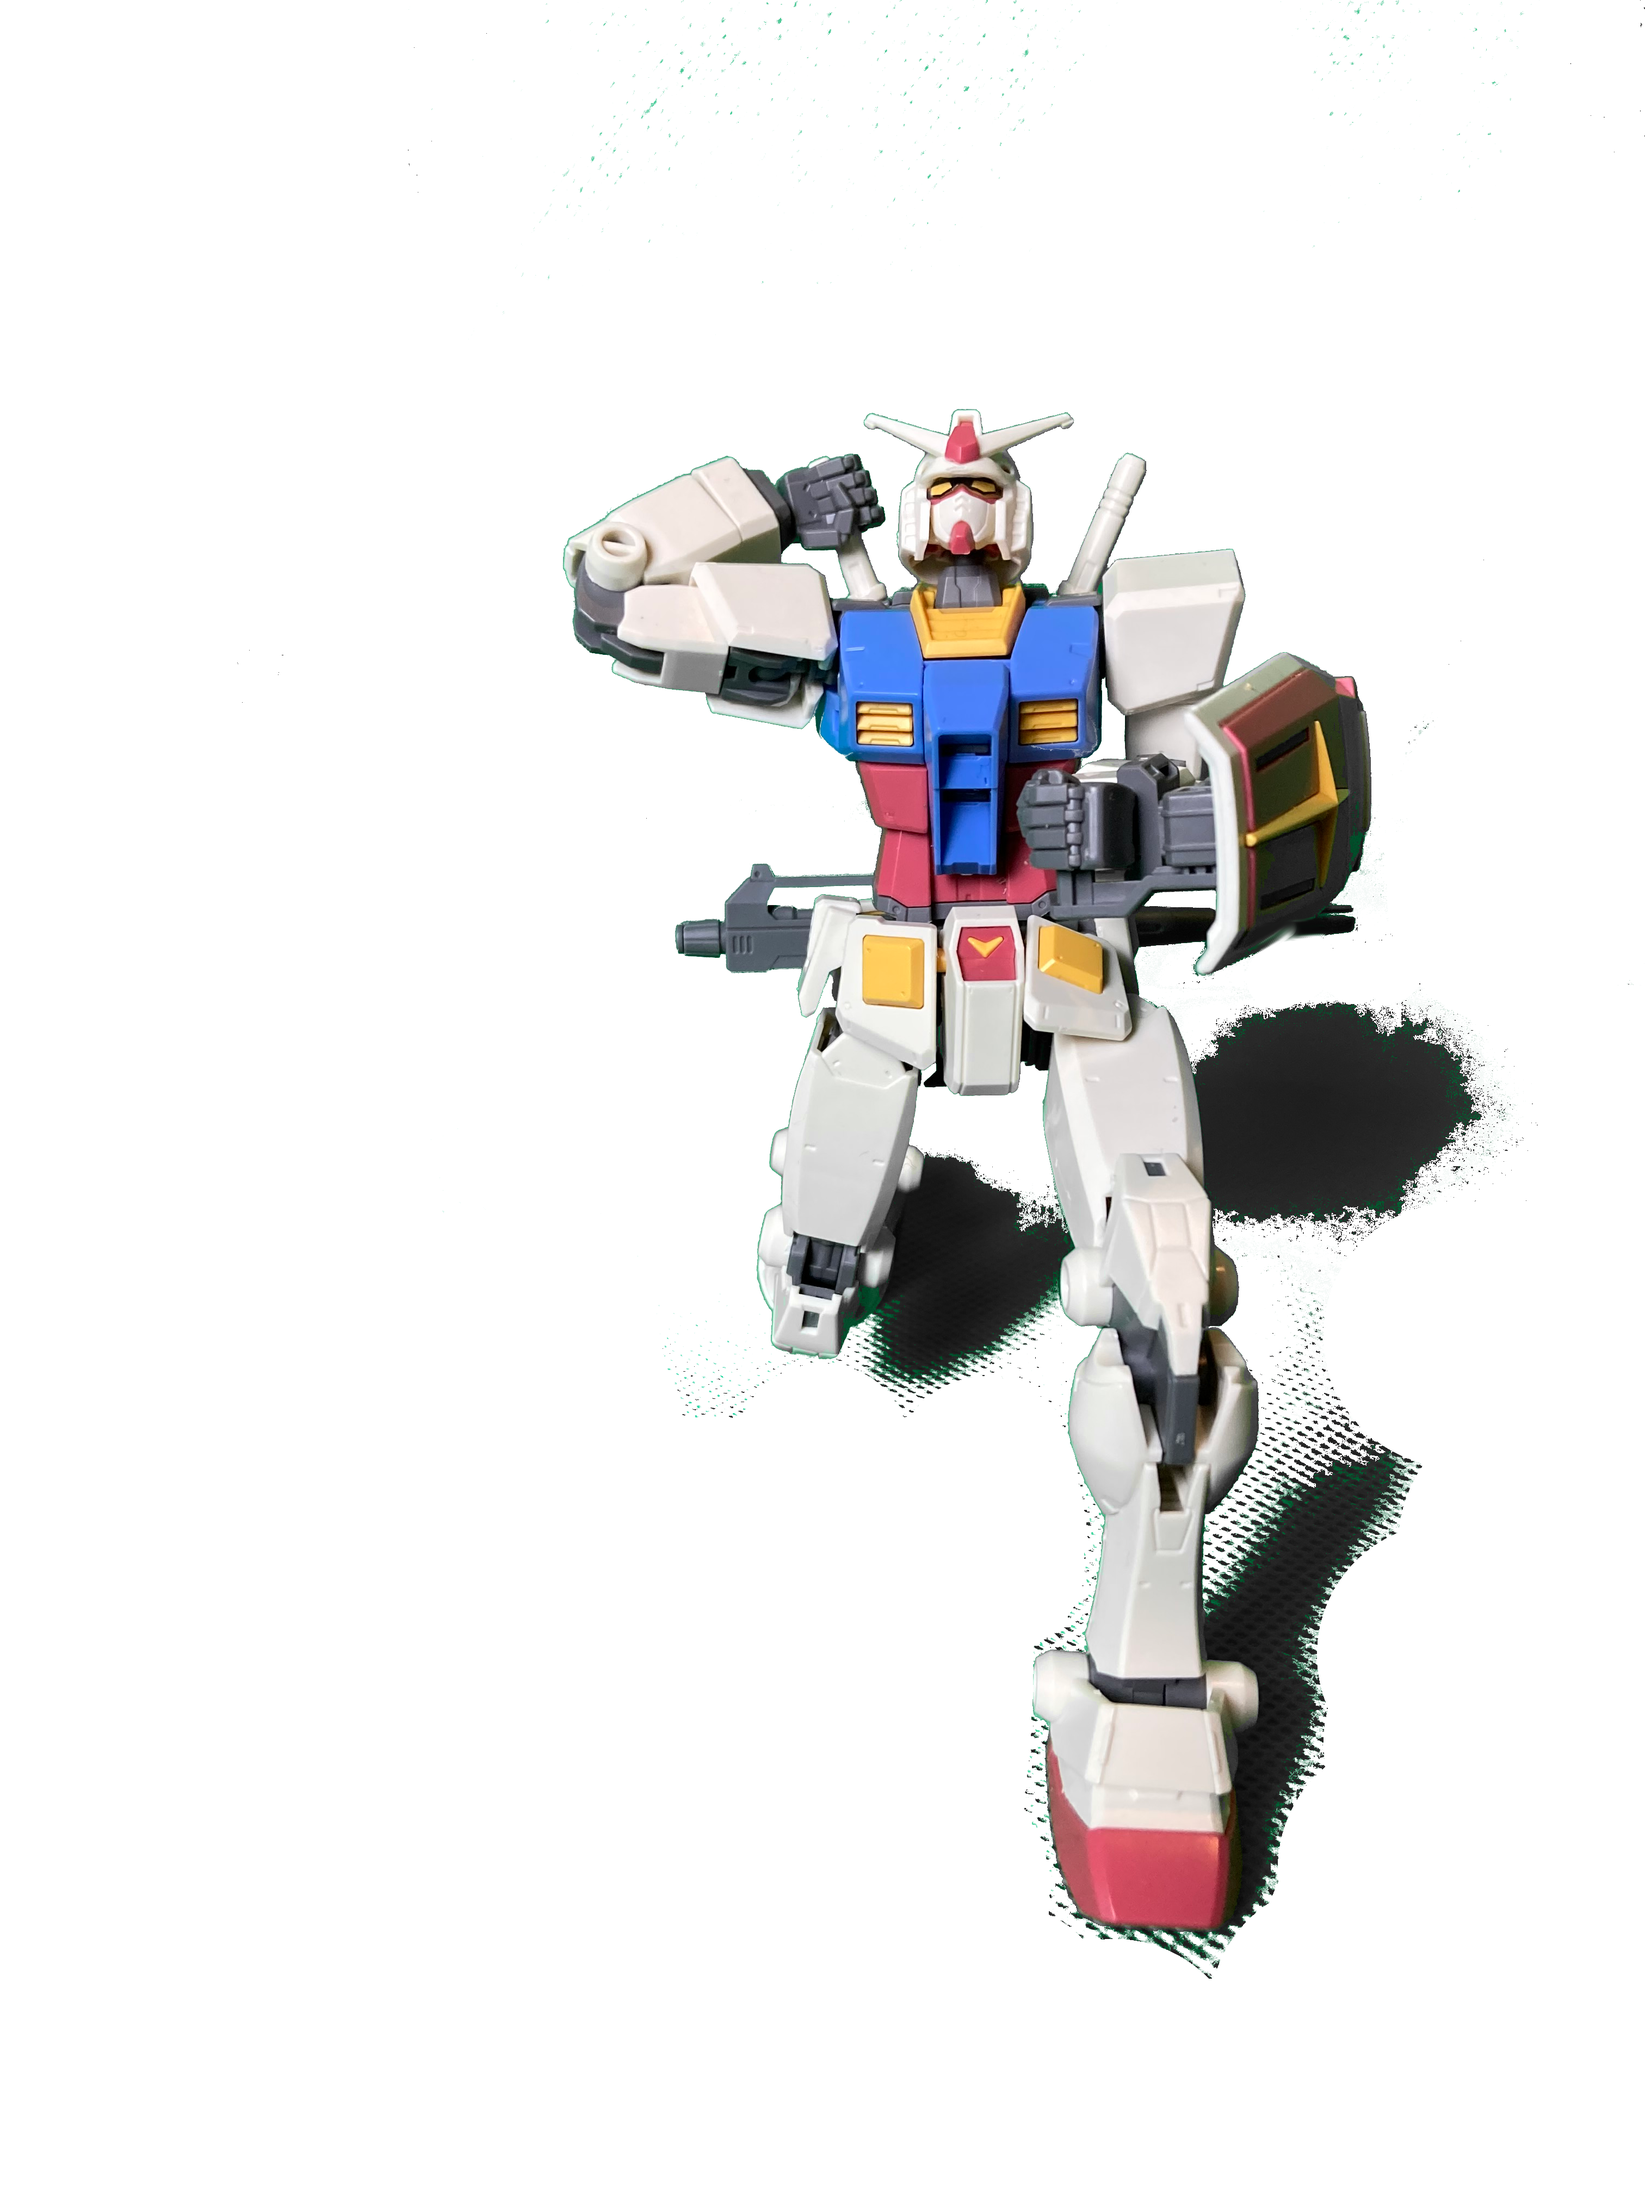
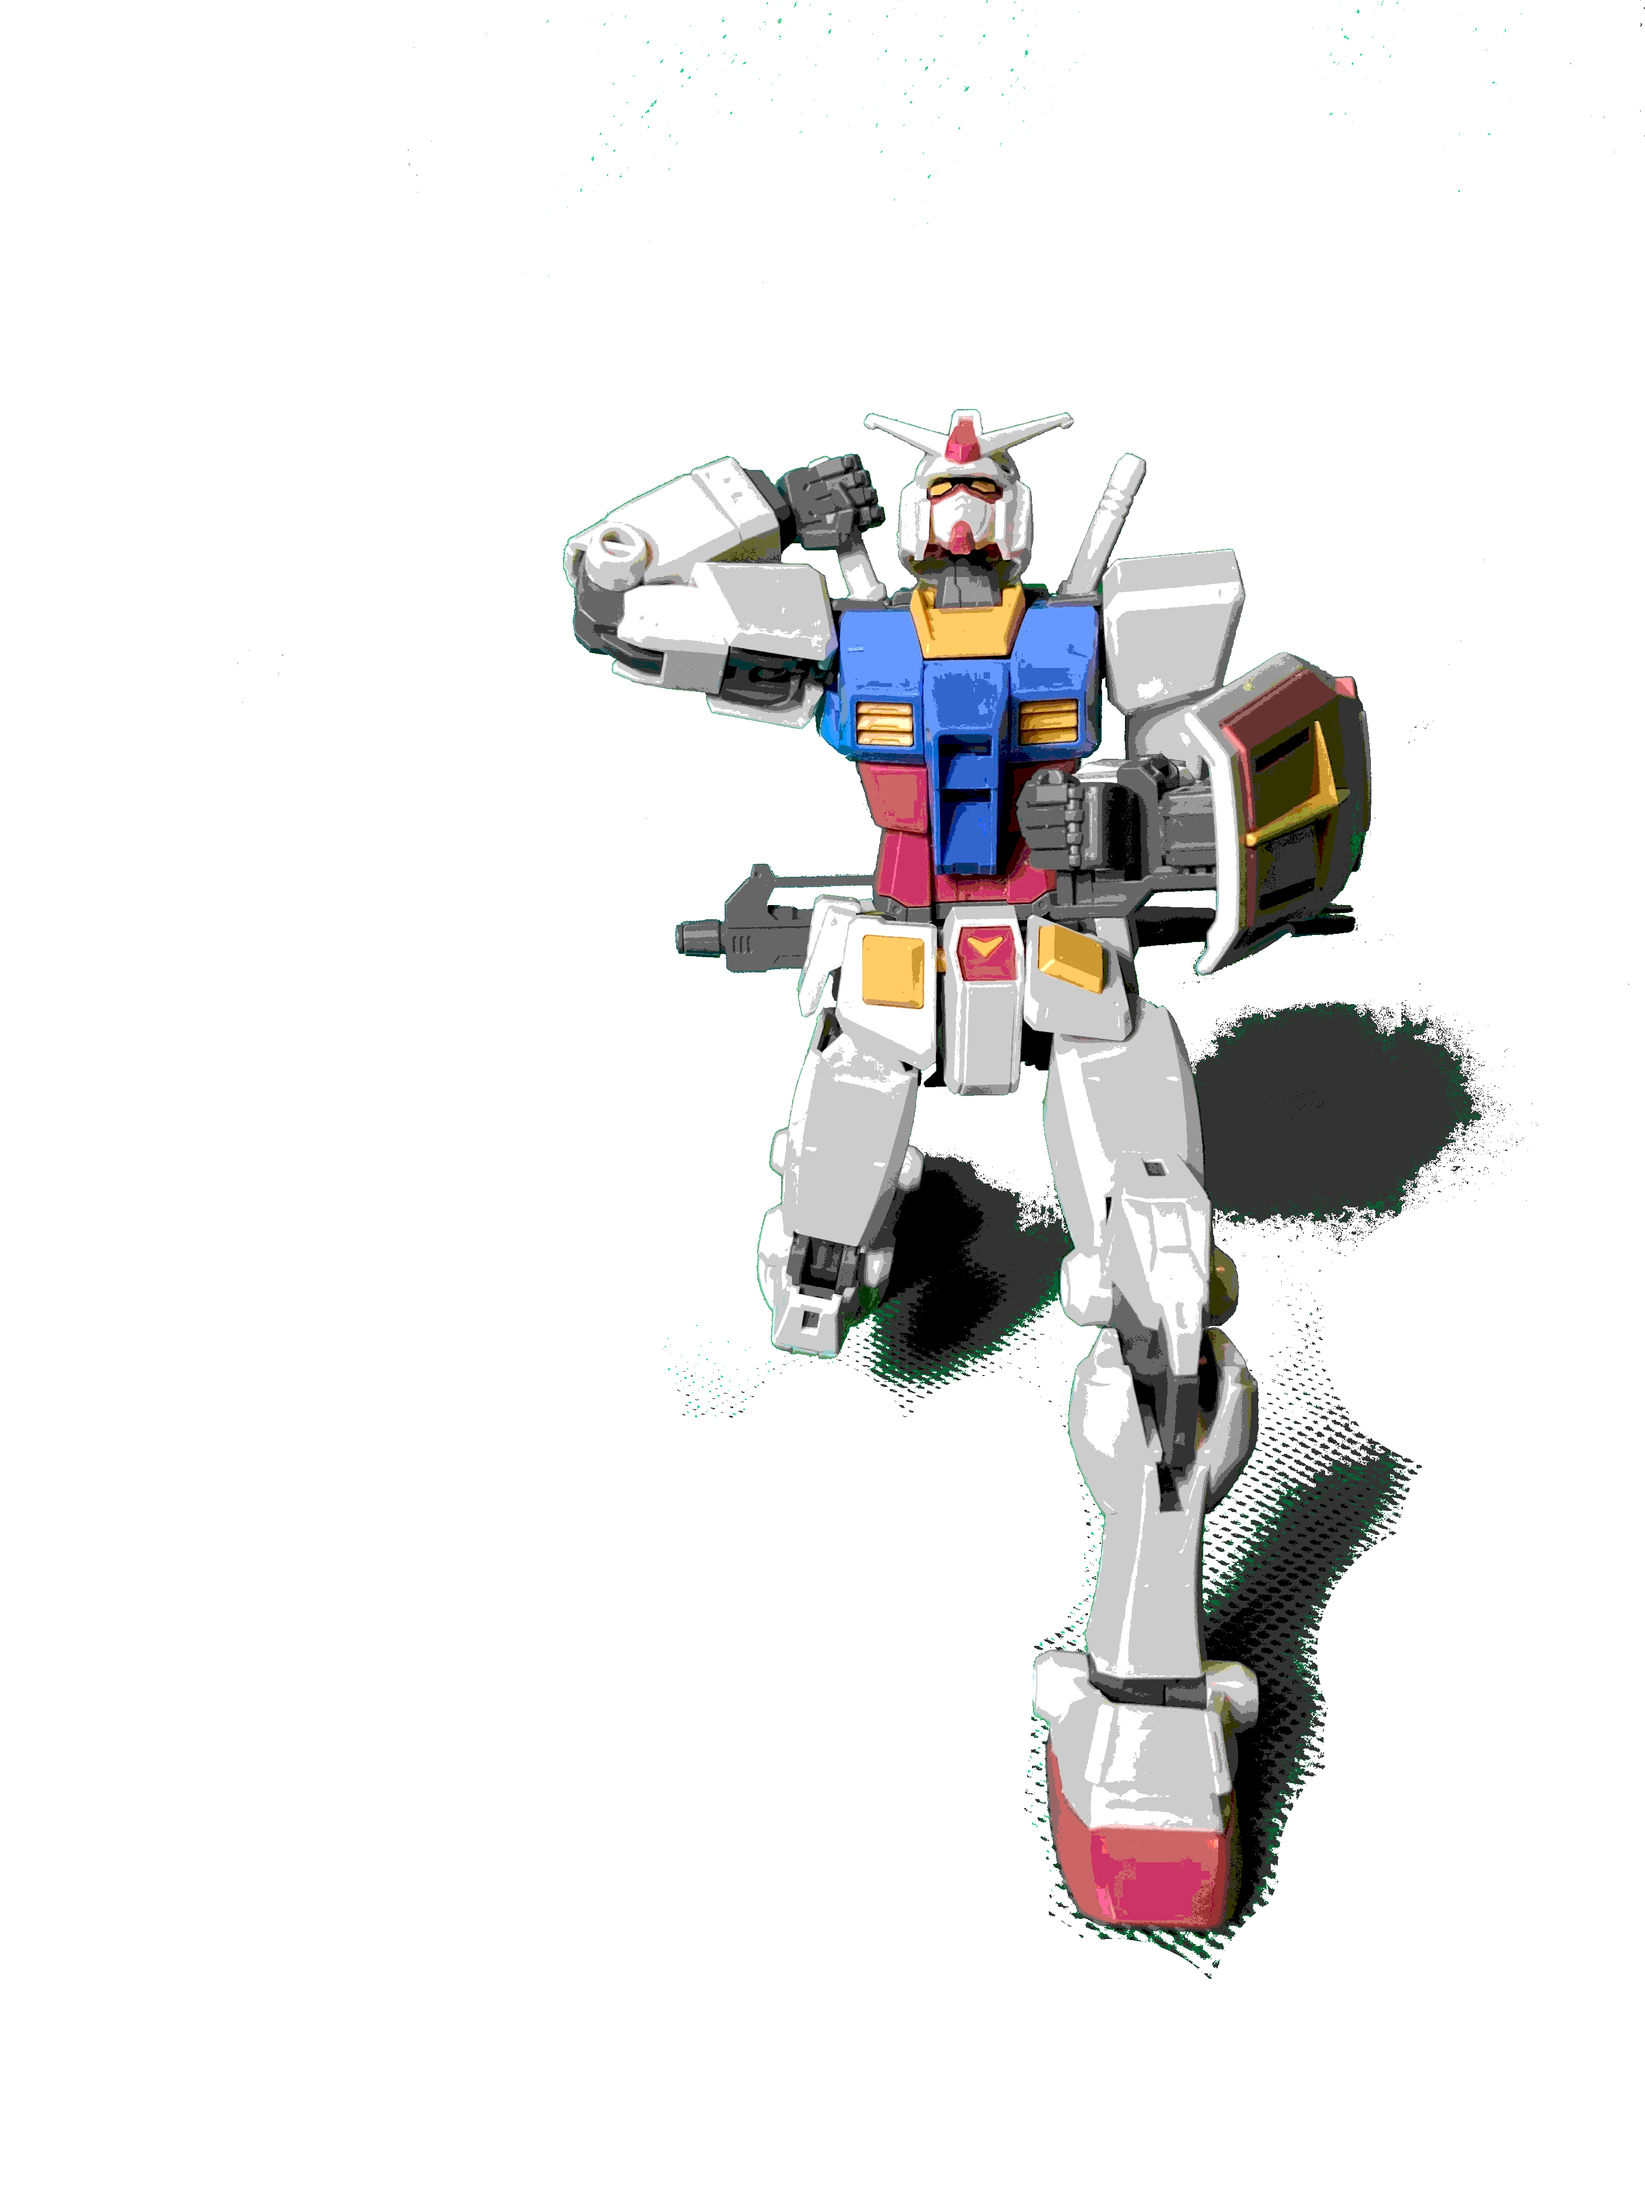
photos added, readme added

Changed region(s): [[0.3419, 0.1875, 0.8393, 0.9062], [0.8393, 0.6562, 0.8704, 0.6875], [0.6217, 0.5312, 0.6528, 0.5625]]

diff --git a/ReadMe.md b/ReadMe.md
@@ -1,0 +1,12 @@
+Title: Gunpla3D.com Community Orientated Site For Viewing Gunpla
+
+I created this site Gunpla3d.com with the intention of adding as many gunpla as I can with a 3Desque view to help beginners(like me) make decisions on which kits to buy / build.
+
+If anyone would like to contribute pictures of their gunpla to the site I can credit you on there and link to your personal site or social media because this will be a bit of work - taking many pictures while rotating the gunpla.
+
+I'd like community feedback on the site and recommendations on what features it could use or any other conntent that could be linked on each gunpla page. It's very much a demonstration site ATM but has the basic idea is there, I'd like to spend the next while just getting content for the site before adding more complex features but I'm open to any ideas.
+
+An additional pain point I had was taking the actual photos I used a green screen fabric as a background so I could chroma key it out but it had fold marks and the color was not consistent because of this. On top of the green screen issues just rotating the gunpla was tough due to it falling at times and inconsitencies in angles. I have pre ordered a gunpla which should arrive in the coming months which has a base to make this easier. Any tips for this would be appreciated as well.
+
+The attached photo is my build, i'd like to panel line it but before I do a few tutorial videos would be needed as i'm worried I'll mess it up.
+If you think this a good idea feel free to comment / upvote.
